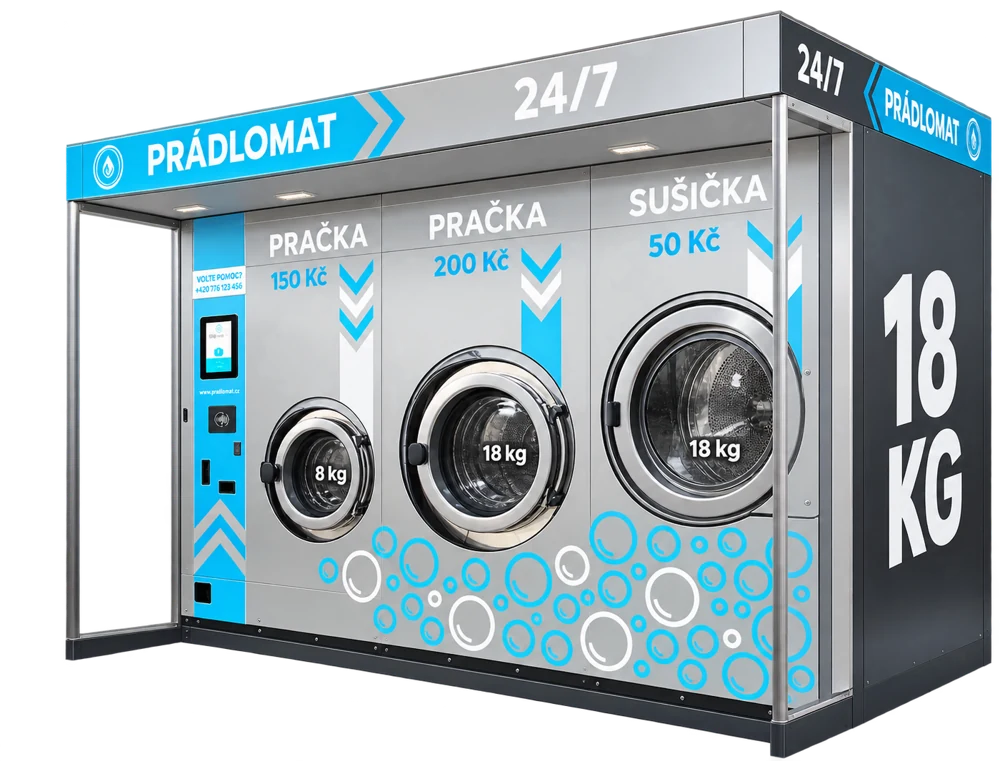
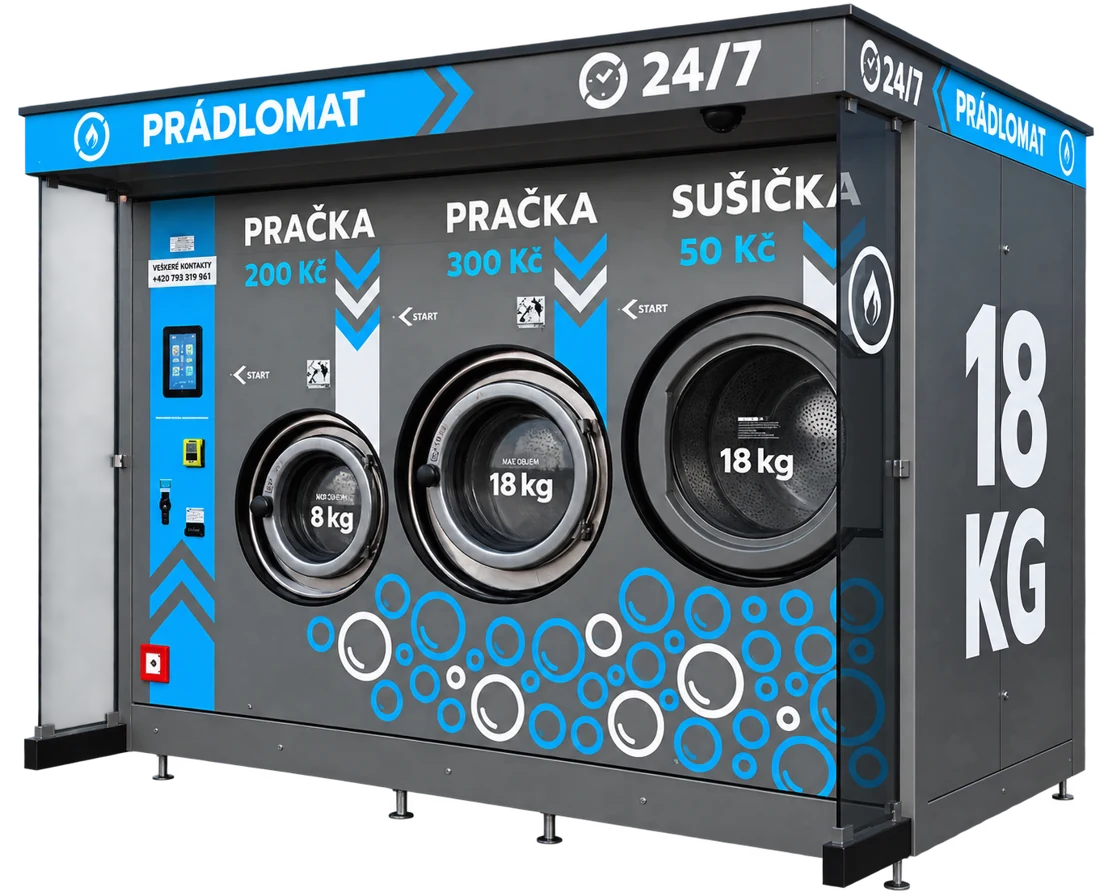
BS2: nové fotky prádlomatu a MINI s průhledným sklem

diff --git a/apps/bs2/views.js b/apps/bs2/views.js
@@ -313,7 +313,7 @@ function homeStory(s) {
   </style>
   <div class="st">
     <div class="first"><span class="k">Best Series 2.0</span><h2>První <span class="cp">Compounder</span> v&nbsp;Čechách</h2></div>
-    <div class="intro"><div class="intro-txt"><p class="lead">Od roku <b>2018</b> stavěla skupina lidí Best Series. Osm let práce, překážek a budování důvěry. <b>24. 9. 2026</b> se to zlomilo. Do teď jsme tvořili Best Series — od <b>24. 9. 2026</b> tvoří <b>Best Series 2.0</b> z lidí <b class="cp">Compoundery</b>.</p><a class="btn" href="/compounder" style="margin-top:16px">Jak přemýšlí Compounder ${ICON.arrow}</a></div><img class="pm3d" src="/img/pradlomat.webp" alt="Prádlomat 24/7" width="460" height="350" loading="eager" decoding="async"></div>
+    <div class="intro"><div class="intro-txt"><p class="lead">Od roku <b>2018</b> stavěla skupina lidí Best Series. Osm let práce, překážek a budování důvěry. <b>24. 9. 2026</b> se to zlomilo. Do teď jsme tvořili Best Series — od <b>24. 9. 2026</b> tvoří <b>Best Series 2.0</b> z lidí <b class="cp">Compoundery</b>.</p><a class="btn" href="/compounder" style="margin-top:16px">Jak přemýšlí Compounder ${ICON.arrow}</a></div><img class="pm3d" src="/img/pradlomat.webp?v=2" alt="Prádlomat 24/7" width="460" height="350" loading="eager" decoding="async"></div>
 
     <div class="tl">
       <div class="c"><div class="y">2018 – 2026</div><div class="t">Best Series</div><p>Osm let tvrdé práce: vlastní výroba, servis, síť míst, konzistence. Důvěra, která se nedá koupit — jen odpracovat.</p></div>
@@ -478,7 +478,7 @@ function supporterCompounder(s) {
     ${PHASES.map(ph => `<section class="ph">
       <div class="ph-head"><div class="ph-no"><span>Fáze</span><b>${ph.no}</b></div><div><div class="ph-k">${esc(ph.k)}</div><h2>${esc(ph.title)}</h2><p>${ph.lead}</p></div></div>
       ${ph.visual === 'pilots' ? `<div class="pilots"><div class="pl-row one"><div class="pl"><img src="/img/pradlomat-mini.webp?v=3" alt="Pilot MINI" loading="lazy" decoding="async"><span class="pl-tag">Pilot — Váš první prádlomat</span><span class="pl-mini">MINI · ideálně bez financování</span></div></div><div class="pl-cap"><span><i></i>1 stroj · verze MINI · za vlastní (nebo s max. akontací)</span><span class="pl-arrow">→</span><span class="pl-goal">cíl: ověřit místo do ~6 měsíců</span></div></div>` : ''}
-      ${ph.visual === 'scale' ? `<div class="scale"><div class="sc-col ok"><div class="sc-h"><i></i>Místo verifikováno</div><div class="sc-m"><img src="/img/pradlomat-mini.webp?v=3" alt="Pilot MINI" loading="lazy" decoding="async"><span class="pl-tag">Pilot</span></div><div class="sc-plus">+</div><div class="sc-m new"><img src="/img/pradlomat.webp" alt="Další stroj" loading="lazy" decoding="async"><span class="pl-tag z">100 % zafinancovaný</span></div><div class="sc-t">stroj splácí sám sebe — a ještě něco zbývá</div></div>
+      ${ph.visual === 'scale' ? `<div class="scale"><div class="sc-col ok"><div class="sc-h"><i></i>Místo verifikováno</div><div class="sc-m"><img src="/img/pradlomat-mini.webp?v=3" alt="Pilot MINI" loading="lazy" decoding="async"><span class="pl-tag">Pilot</span></div><div class="sc-plus">+</div><div class="sc-m new"><img src="/img/pradlomat.webp?v=2" alt="Další stroj" loading="lazy" decoding="async"><span class="pl-tag z">100 % zafinancovaný</span></div><div class="sc-t">stroj splácí sám sebe — a ještě něco zbývá</div></div>
         <div class="sc-col wait"><div class="sc-h"><i></i>Místo neverifikováno</div><div class="sc-m dim"><img src="/img/pradlomat-mini.webp?v=3" alt="Pilot MINI" loading="lazy" decoding="async"><span class="pl-tag g">Pilot</span></div><div class="sc-arrow">⟶</div><div class="sc-t">počkat · nebo přemístit na nové místo a verifikovat znovu</div></div></div>` : ''}
       <div class="ph-grid">${ph.points.map(pt => `<div class="c"><div class="i">${ico(pt[0], 20)}</div><b>${esc(pt[1])}</b><p>${pt[2]}</p></div>`).join('')}</div>
       ${ph.timeline ? `<div class="ph-tl">${ph.timeline.map((t, i) => `<div class="s"><i>${i + 1}</i><b>${esc(t[0])}</b><span>${esc(t[1])}</span></div>`).join('')}</div>` : ''}
